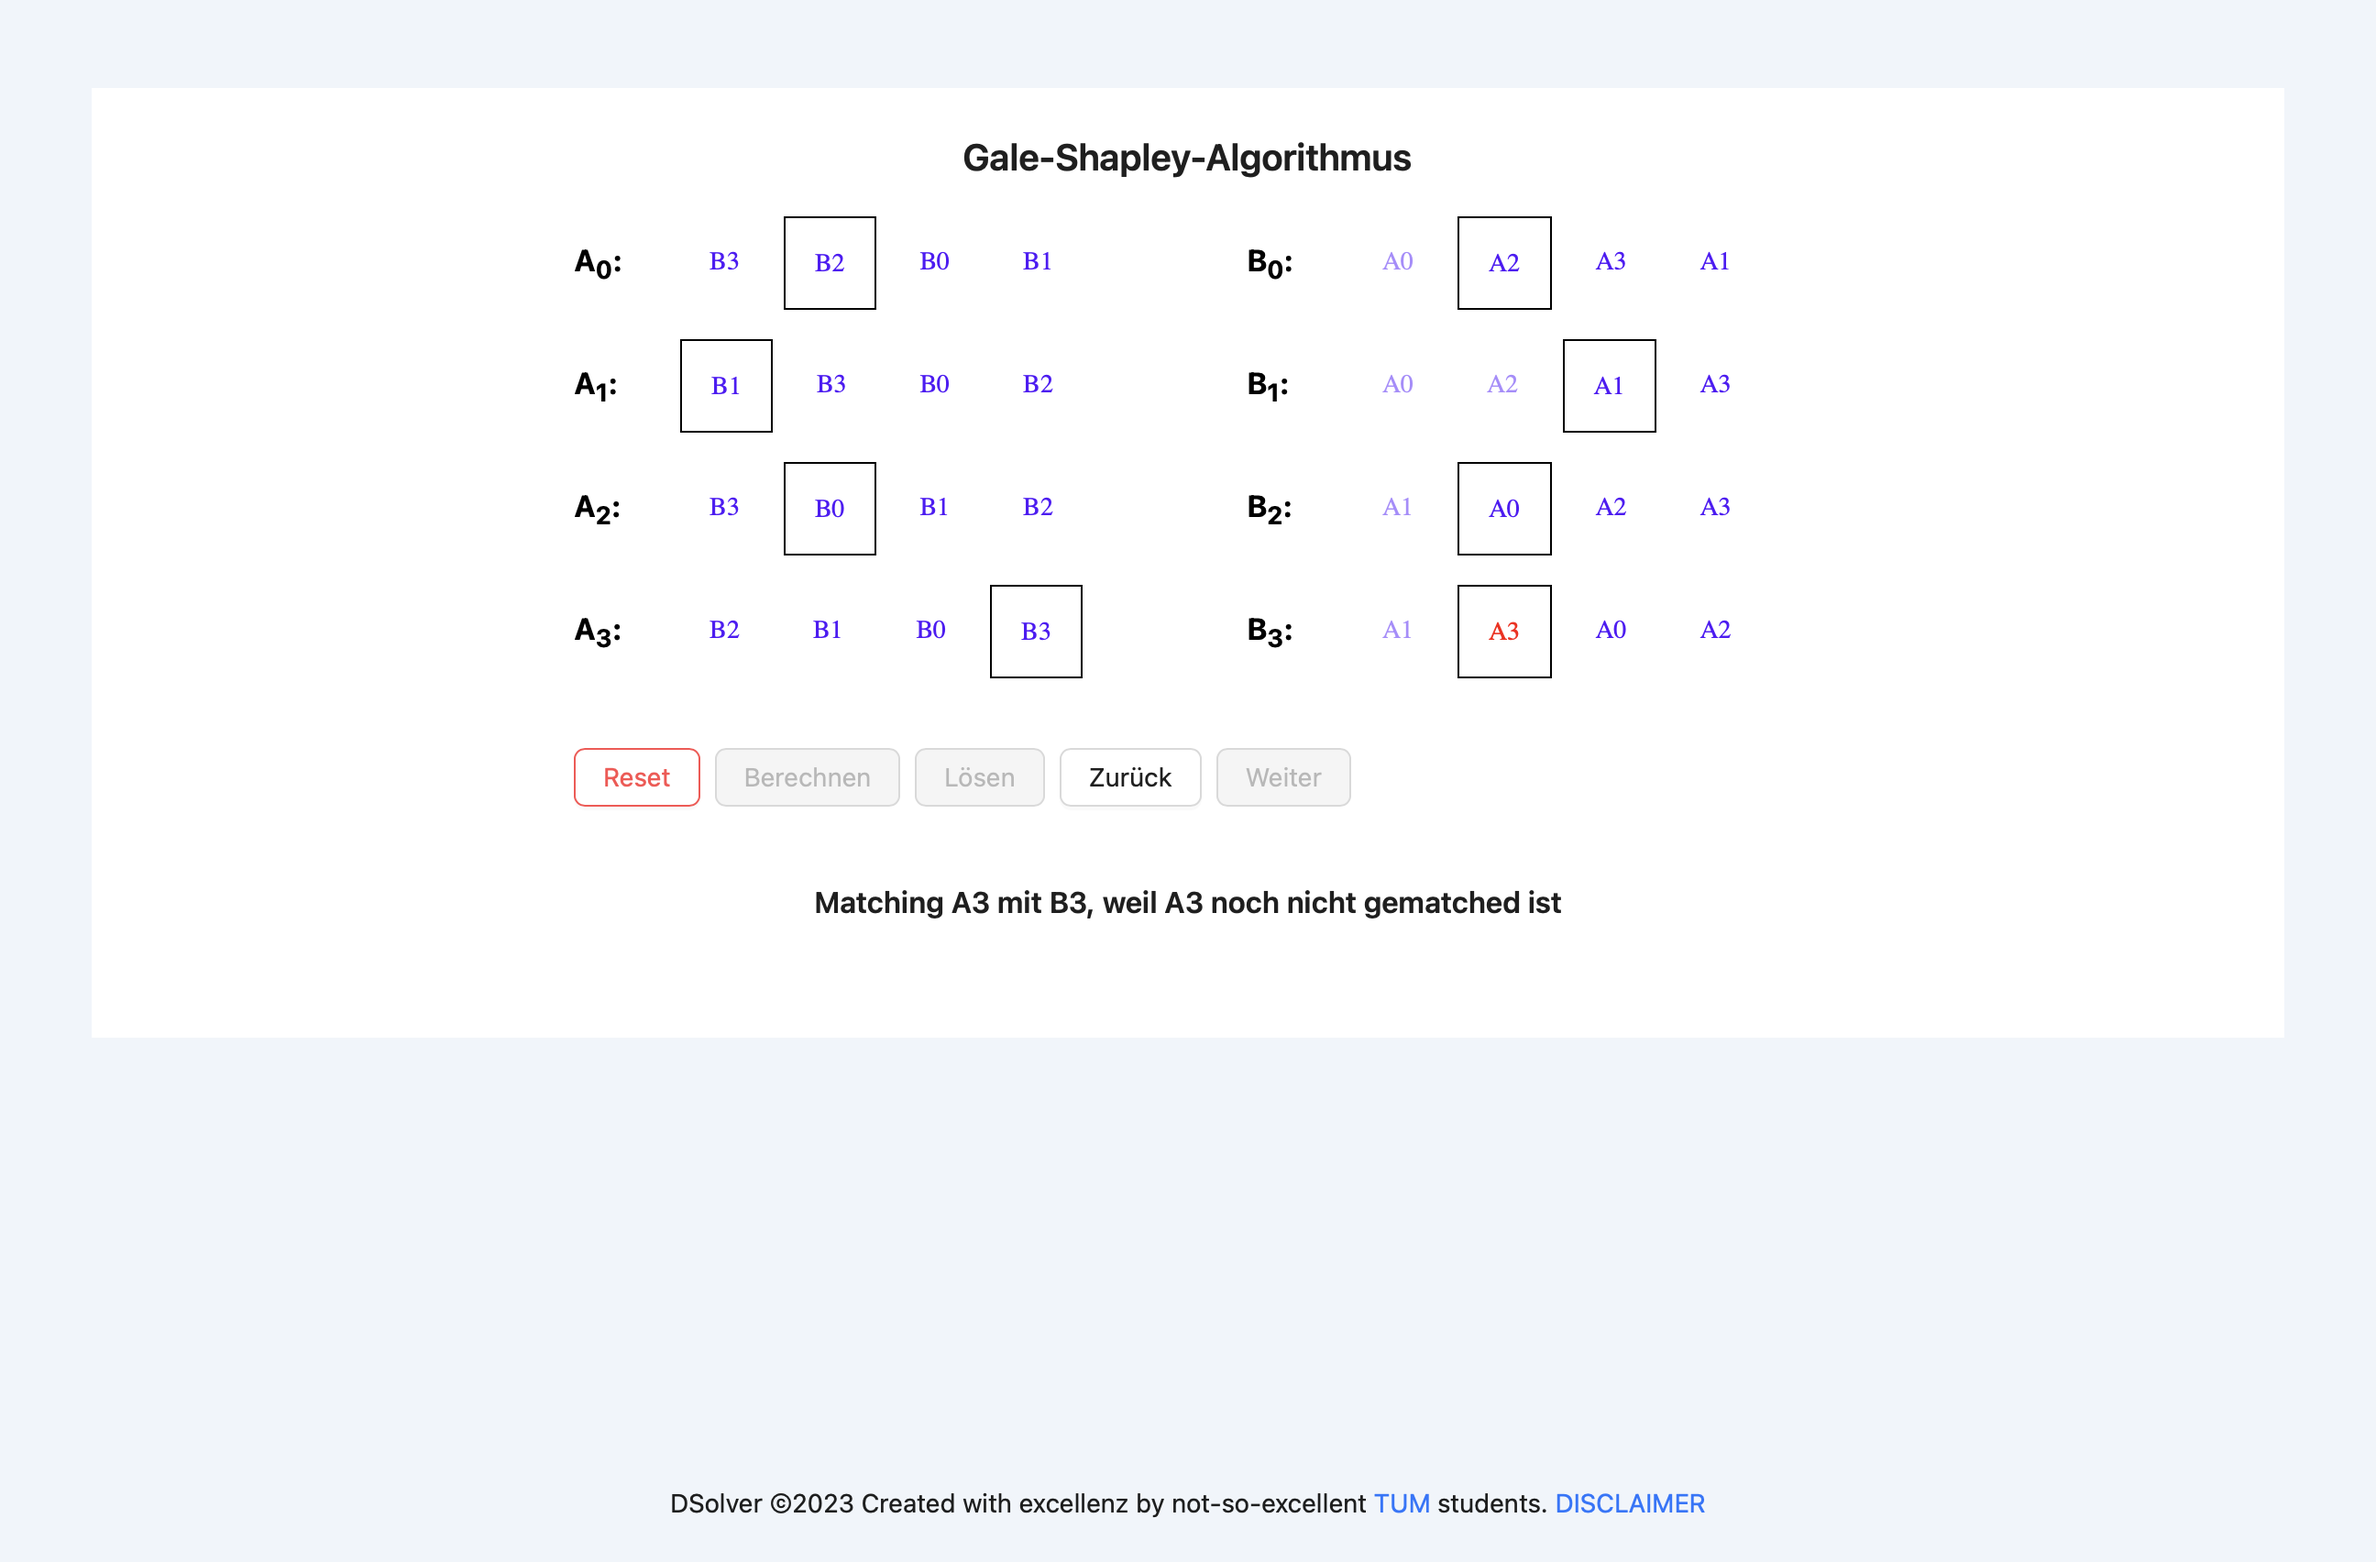
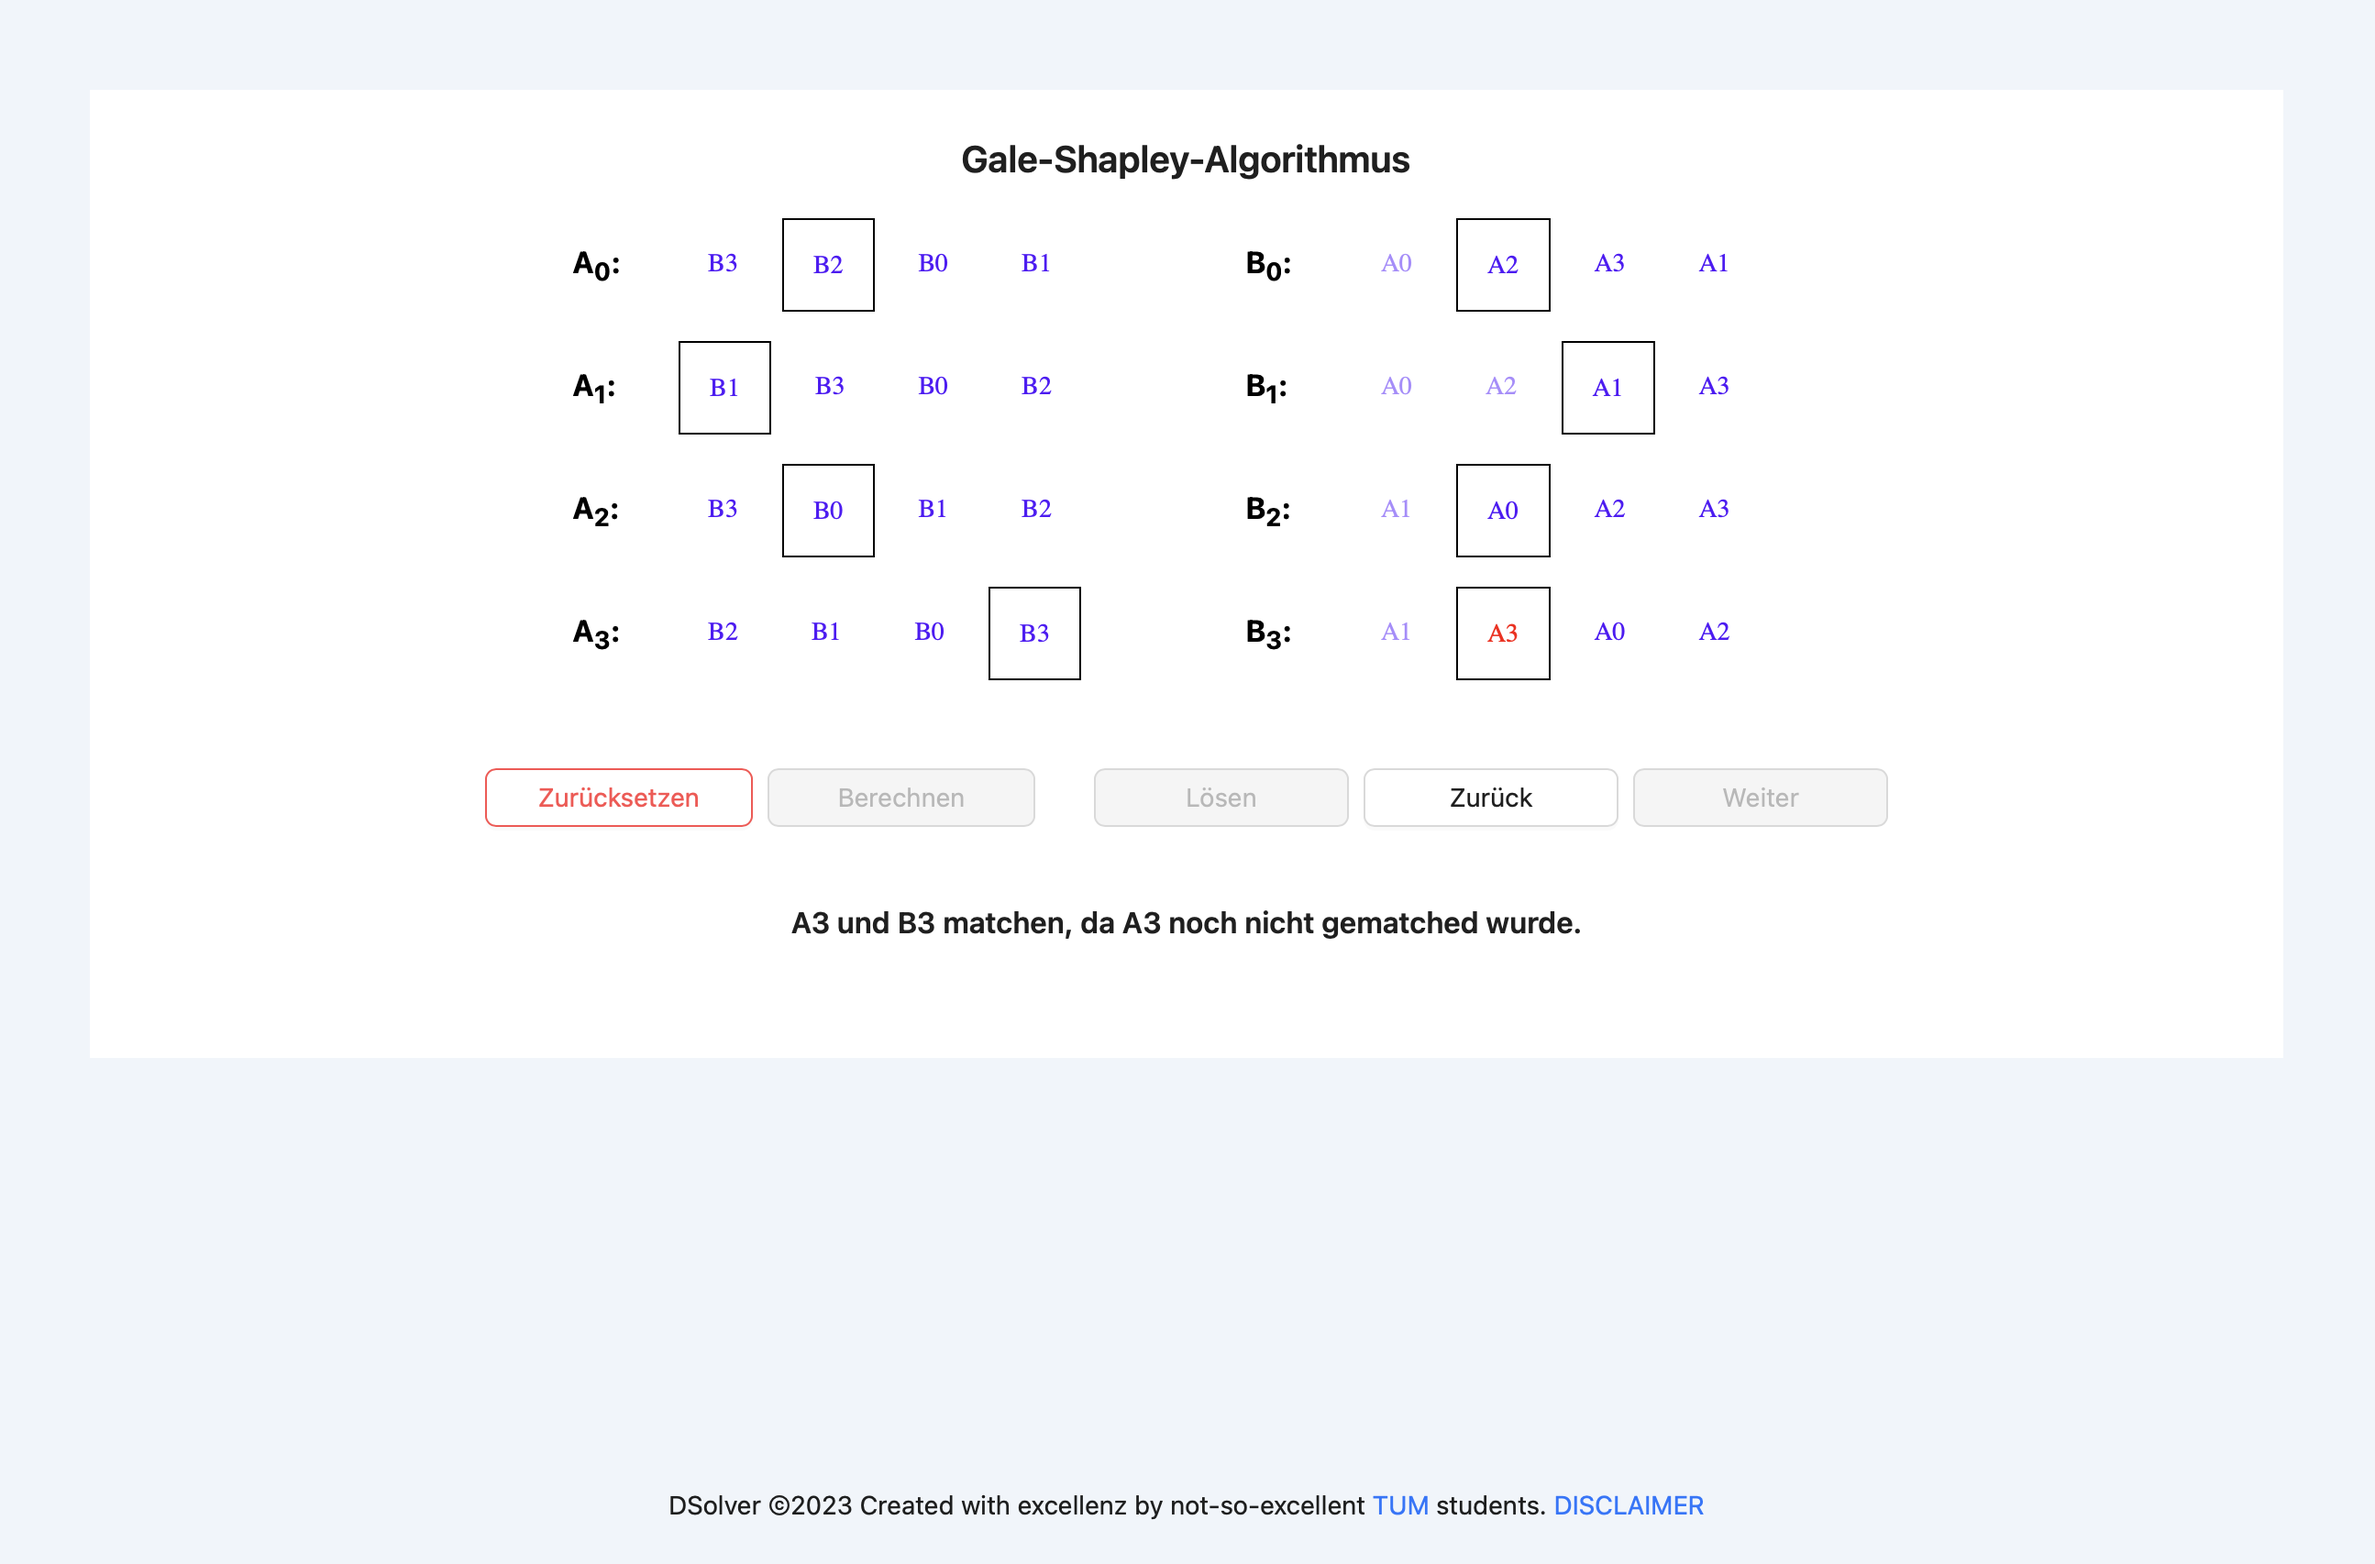
made matching more responsive

diff --git a/src/components/Matching/Matching.jsx b/src/components/Matching/Matching.jsx
@@ -197,49 +197,68 @@ export default function Matching() {
                 <Title style={{textAlign:"center"}} level={4}>Gale-Shapley-Algorithmus</Title>
 
                 <Row justify={"center"} >
-                    <Col lg={14}>
-                        <Row gutter={[64, 32]}>
-                            <Col lg={12} xs={12}>
+                    <Col lg={14} >
+                        <Row gutter={[64, 16]}>
+                            <Col lg={12} xs={24}>
                                 <Preferenzen calculated={calculated} letter={"A"} matrix={matrixA} setMatrix={setMatrixA}/>
                             </Col>
 
-                            <Col lg={12} xs={12}>
+                            <Col lg={12} xs={24}>
                                 <Preferenzen calculated={calculated} letter={"B"} matrix={matrixB} setMatrix={setMatrixB} />
                             </Col>
                         
                         </Row>
                     </Col>
 
-                    <Col lg={14} className="mt-3">
-                        <Space>
-                        <Button danger disabled={!calculated} onClick={() => { reset() }}>Zurücksetzen</Button>
-                        <Button disabled={calculated} onClick={() => { calculate() }}>Berechnen</Button>
-                        <Button disabled={!calculated || currentState === states.length-1} onClick={() => {
-                                setMatrixA(states[states.length-1].matrixA)
-                                setMatrixB(states[states.length-1].matrixB)
-                                setErklarung(states[states.length-1].desc)
-                                setCurrentState(states.length-1)
-                                }}>Lösen</Button>  
+                    <Col lg={16} md={24} sm={24} xs={24} className="mt-4">
 
-                        <Button disabled={!calculated || currentState<1}  
-                            onClick={() => { 
+                        <Row gutter={[32, 8]}>
+                            <Col xl={10} lg={24} md={24} sm={24} xs={24}>
+                                <Row gutter={[8,8]}>
+                                    <Col lg={12} md={12} sm={12} xs={24}>
+                                        <Button style={{"width" : "100%"}} danger disabled={!calculated} onClick={() => { reset() }}>Zurücksetzen</Button>
+                                    </Col>
+                                    <Col lg={12} md={12} sm={12} xs={24}>
+                                        <Button style={{"width" : "100%"}} disabled={calculated} onClick={() => { calculate() }}>Berechnen</Button>
+                                    </Col>
+                                </Row>
+                            </Col>
 
-                            setMatrixA(states[currentState-1].matrixA)
-                            setMatrixB(states[currentState-1].matrixB)
-                            setErklarung(states[currentState-1].desc)
-                            setCurrentState(currentState-1)
+                            <Col xl={14} lg={24} md={24} sm={24} xs={24}>
+                                <Row gutter={[8,0]}>
+                                    <Col lg={8} sm={8} xs={8}>
+                                            <Button style={{"width" : "100%"}} disabled={!calculated || currentState === states.length-1} onClick={() => {
+                                                setMatrixA(states[states.length-1].matrixA)
+                                                setMatrixB(states[states.length-1].matrixB)
+                                                setErklarung(states[states.length-1].desc)
+                                                setCurrentState(states.length-1)
+                                                }}>Lösen</Button>  
+                                        </Col>
+                                        <Col lg={8} sm={8} xs={8}>
+                                            <Button style={{"width" : "100%"}} disabled={!calculated || currentState<1}  
+                                                onClick={() => { 
 
-                            
-                        }}>Zurück</Button>
+                                                setMatrixA(states[currentState-1].matrixA)
+                                                setMatrixB(states[currentState-1].matrixB)
+                                                setErklarung(states[currentState-1].desc)
+                                                setCurrentState(currentState-1)
 
-                        <Button  disabled={!calculated || currentState === states.length-1} onClick={() => { 
-                            setMatrixA(states[currentState+1].matrixA)
-                            setMatrixB(states[currentState+1].matrixB)
-                            setErklarung(states[currentState+1].desc)
-                            setCurrentState(currentState+1)
-                            
-                        }}>Weiter</Button>
-                        </Space>
+                                                
+                                            }}>Zurück</Button>
+                                        </Col>
+                                        <Col lg={8} sm={8} xs={8}>
+                                                <Button style={{"width" : "100%"}} disabled={!calculated || currentState === states.length-1} onClick={() => { 
+                                                setMatrixA(states[currentState+1].matrixA)
+                                                setMatrixB(states[currentState+1].matrixB)
+                                                setErklarung(states[currentState+1].desc)
+                                                setCurrentState(currentState+1)
+                                                
+                                            }}>Weiter</Button>
+                                        </Col>
+
+                                </Row>
+                            </Col>
+                        </Row>
                     </Col>
                 </Row>
 
